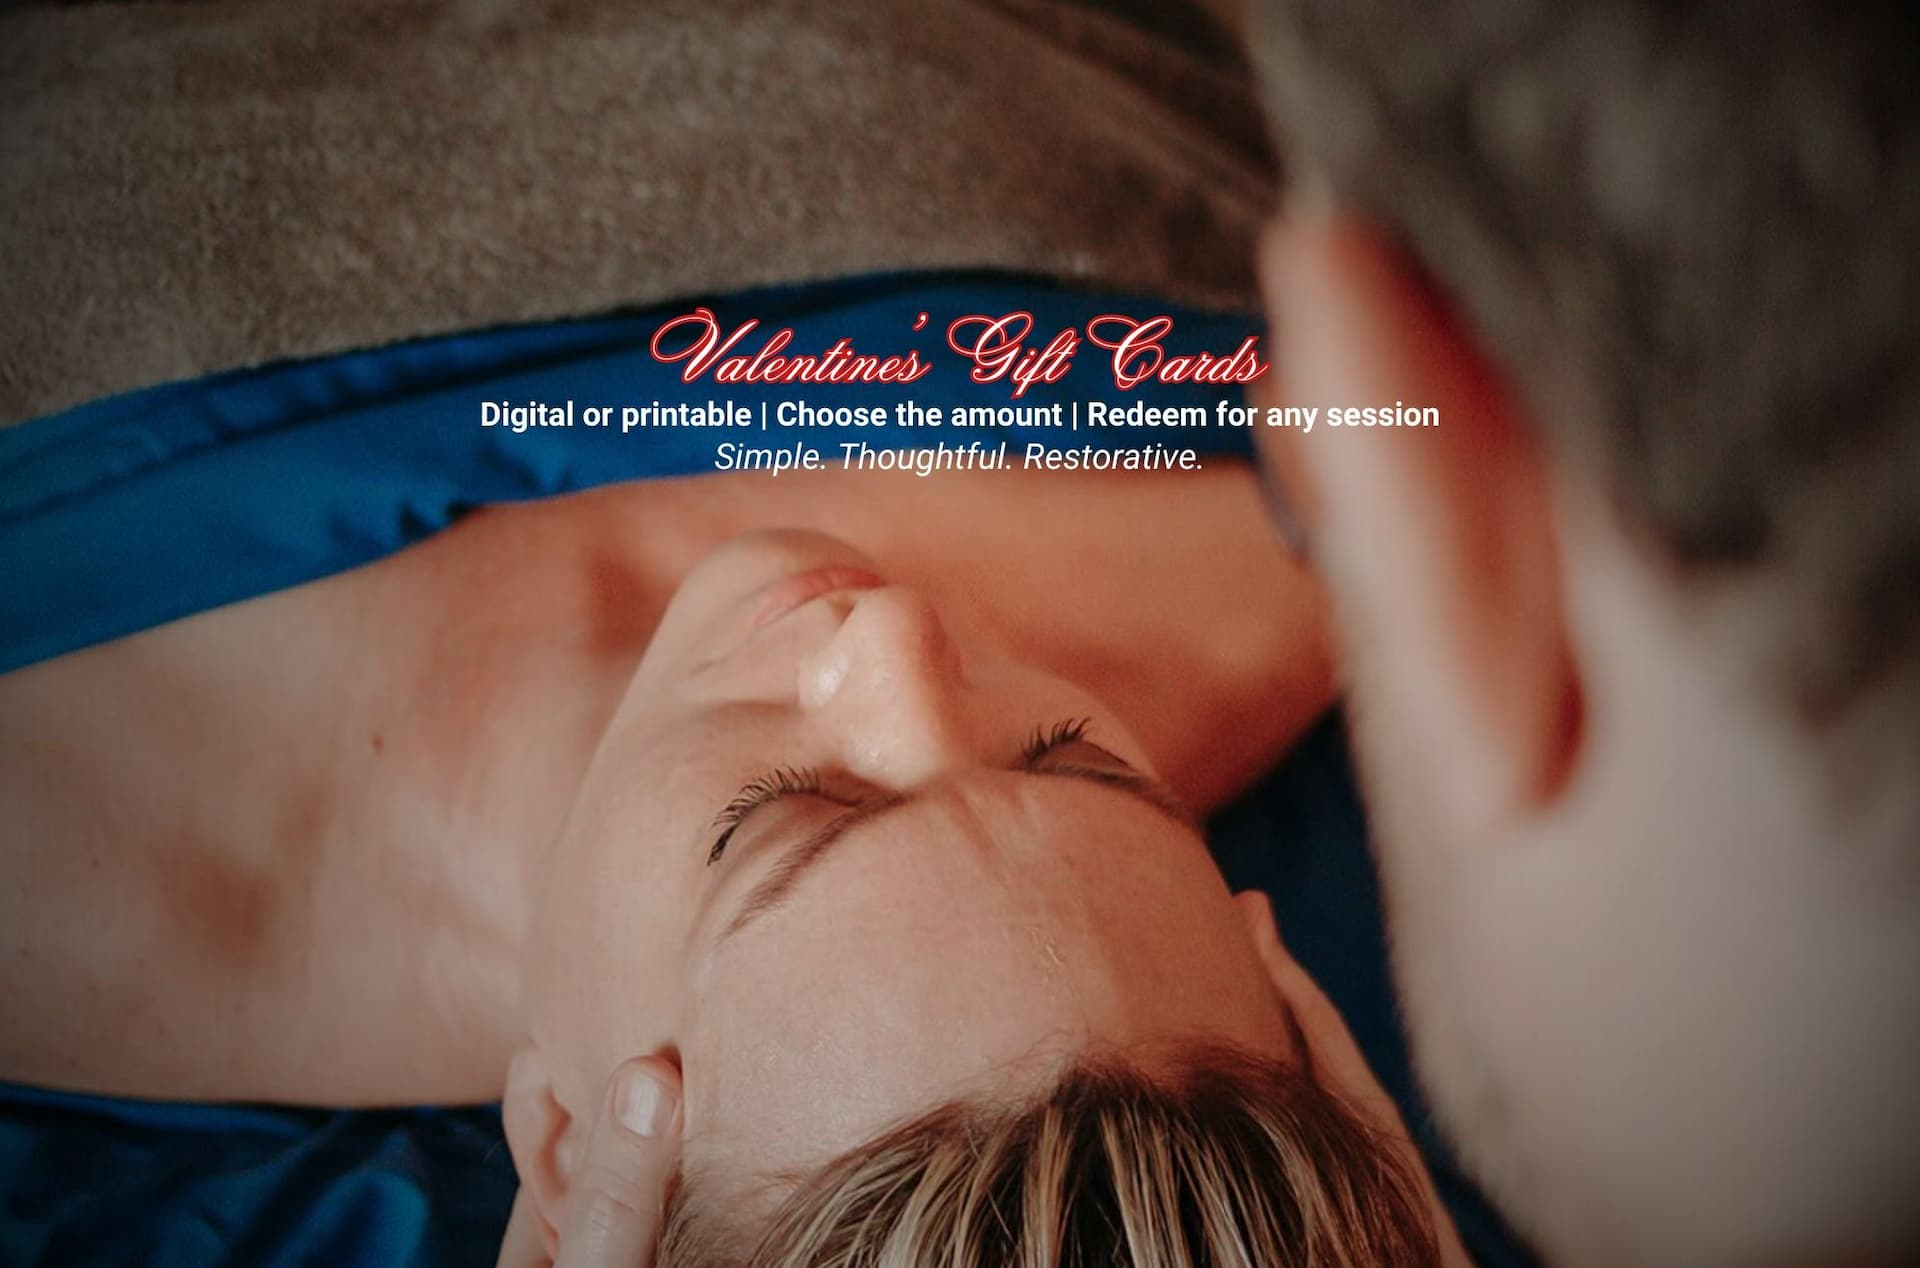
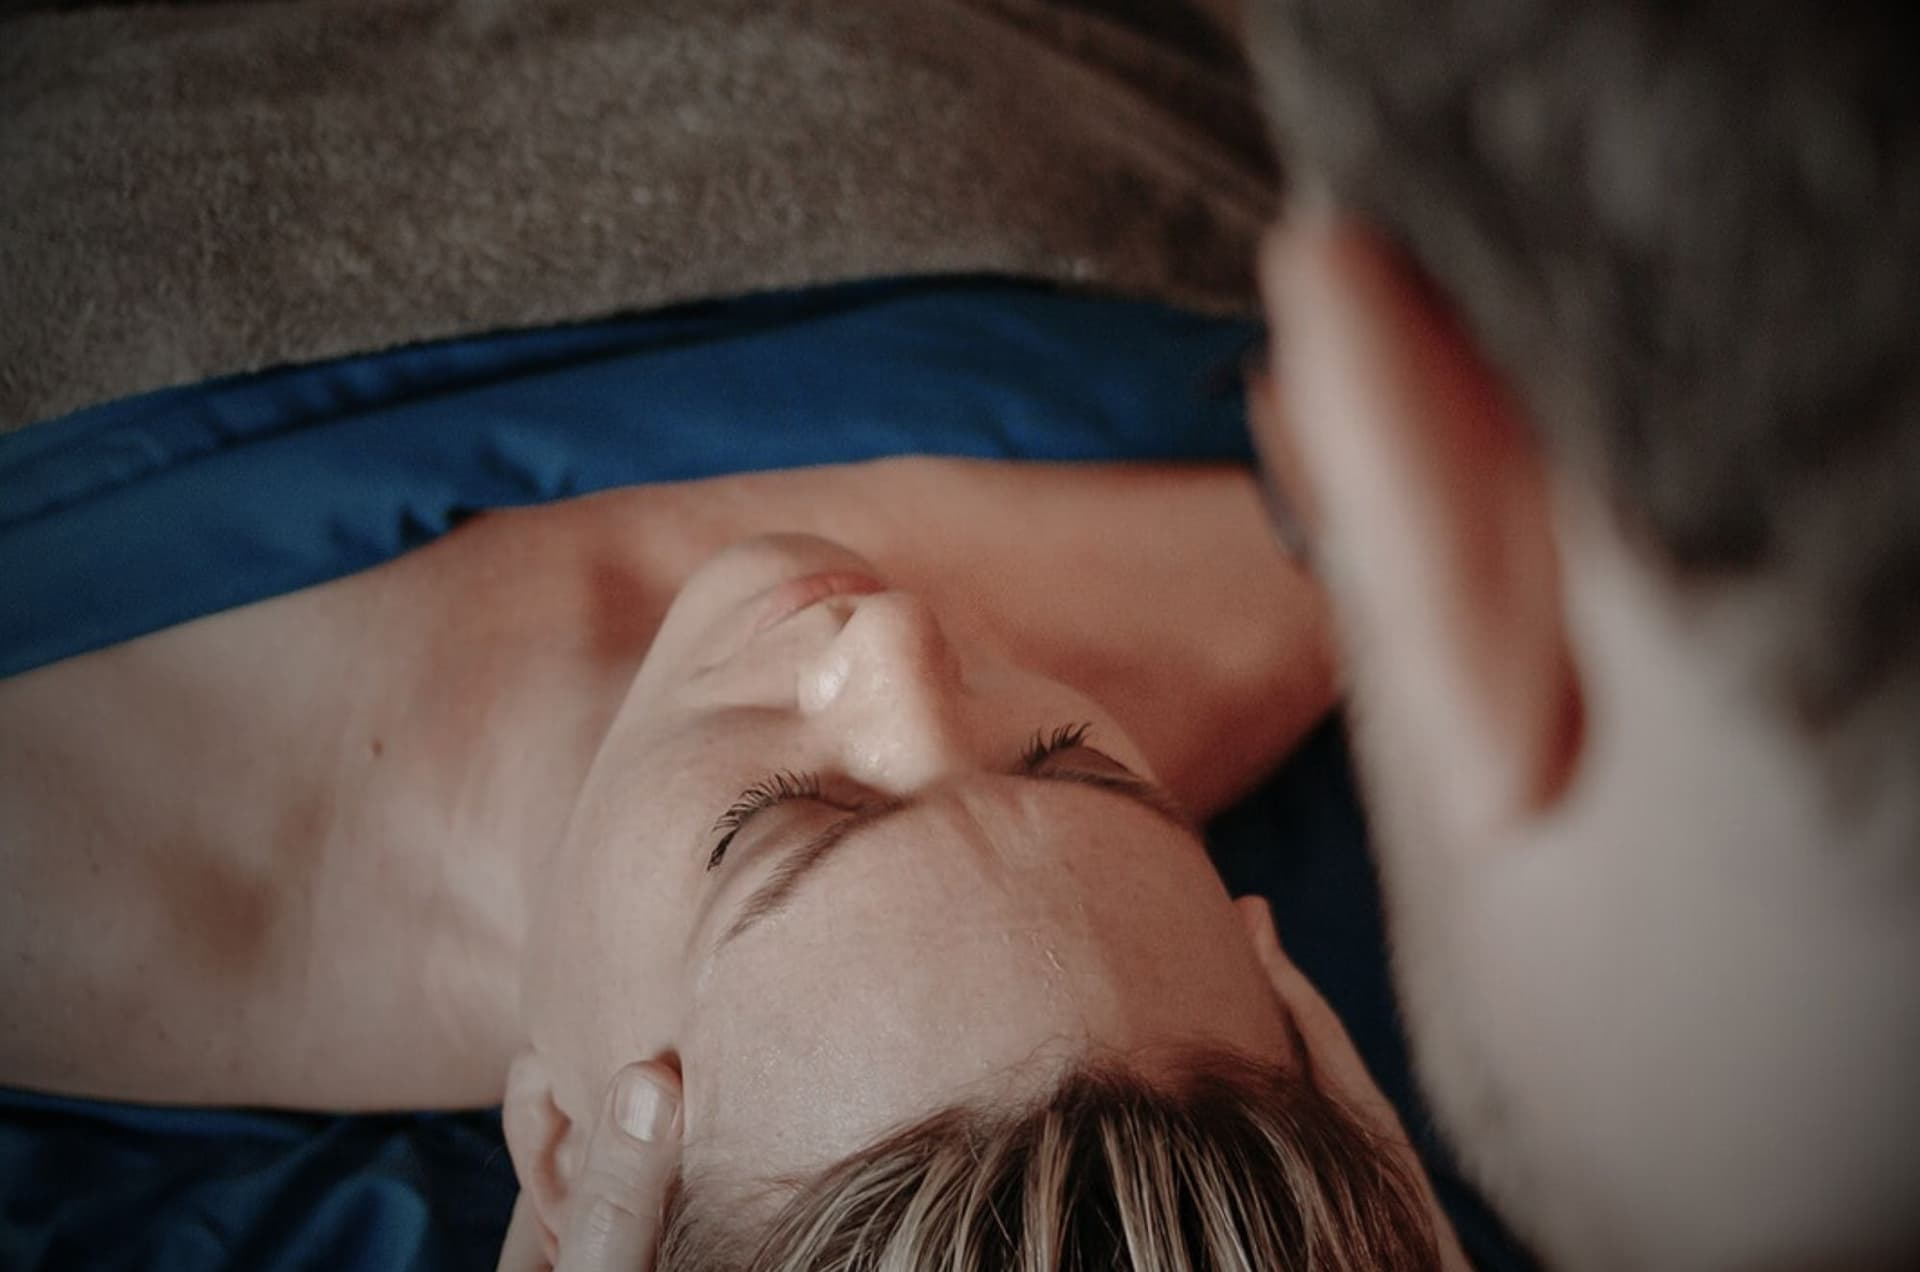
Taglines
Deleted ValDay images and added taglines

diff --git a/index.html b/index.html
@@ -92,6 +92,17 @@
             align-items: center;
             justify-content: space-between;
         }
+
+        .tagline {
+            color: var(--gold);
+            font-size: 0.8rem;
+            font-style: italic;
+            margin-top: -8px;
+            background: linear-gradient(90deg, var(--gold) 0%, #E8D5A3 50%, var(--gold) 100%);
+            -webkit-background-clip: text;
+            -webkit-text-fill-color: transparent;
+            background-clip: text;
+        }
         
         .menu-toggle {
             display: flex;
@@ -166,18 +177,26 @@
         }
         
         .hero h1 {
-            margin-top: -30px;
+            margin-top: -40px;
             font-family: 'Roboto', sans-serif;
             font-size: 3.25rem;
             font-weight: 300;
             font-style: Normal;
             color: var(--white);
-            margin-bottom: 40px;
+            margin-bottom: -15px;
         }
 
         .hero h1 strong {
             font-weight: 500;
         }        
+        
+        .hero-tagline {
+            color: var(--white);
+            font-size: 1.8rem;
+            font-style: italic;
+            margin-bottom: 40px;
+        }
+
         .hero-buttons {
             display: flex;
             gap: 20px;
@@ -922,28 +941,11 @@
         }
 
         @media (max-width: 768px) {
-            .hero h1 {
-                display: none;
-            }
-        }
-
-        @media (max-width: 768px) {
             .hero {
                 background-size: contain;
                 background-repeat: no-repeat;
                 background-color: var(--black);
             }
-        }
-
-        .btn-valentine {
-            background: white !important;
-            border: 2px solid #8B0000 !important;
-            color: #8B0000 !important;
-        }
-
-        .btn-valentine:hover {
-            background: #8B0000 !important;
-            color: white !important;
         }
 
     </style>
@@ -963,6 +965,7 @@
                       
             <div class="header-logo">
                 <img src="images/logo-black-bg.png" alt="My Elite Massage">
+                <div class="tagline">Because "functioning adult" is way harder than it looks.</div>
             </div>
     	    <div class="header-rating">
     		<!-- Elfsight Google Reviews | Review Badge -->
@@ -977,9 +980,10 @@
     <!-- Hero -->
     <section class="hero">
         <h1><strong>Welcome to My Elite Massage</strong></h1>
+        <p class="hero-tagline">More Than Your Average Massage</p>
         <div class="hero-buttons">
     		<a href="https://www.fresha.com/a/my-elite-massage-llc-friendswood-400-west-parkwood-avenue-i9cgwv4s/booking?menu=true&pId=490794&dppub=true&employeeId=1521604" class="btn btn-gold" target="_blank">Book Now</a>
-    		<a href="https://www.fresha.com/a/my-elite-massage-llc-friendswood-400-west-parkwood-avenue-i9cgwv4s/gift-cards?menu=true" class="btn btn-gold btn-valentine" target="_blank">Online Giftcards</a>
+    		<a href="https://www.fresha.com/a/my-elite-massage-llc-friendswood-400-west-parkwood-avenue-i9cgwv4s/gift-cards?menu=true" class="btn btn-gold" target="_blank">Online Giftcards</a>
             <a href="https://www.fresha.com/book-now/my-elite-massage-llc-oa1wvgdo/paid-plans?share=true&pId=490794" class="btn btn-gold" target="_blank">Memberships</a>
             
 	</div>
